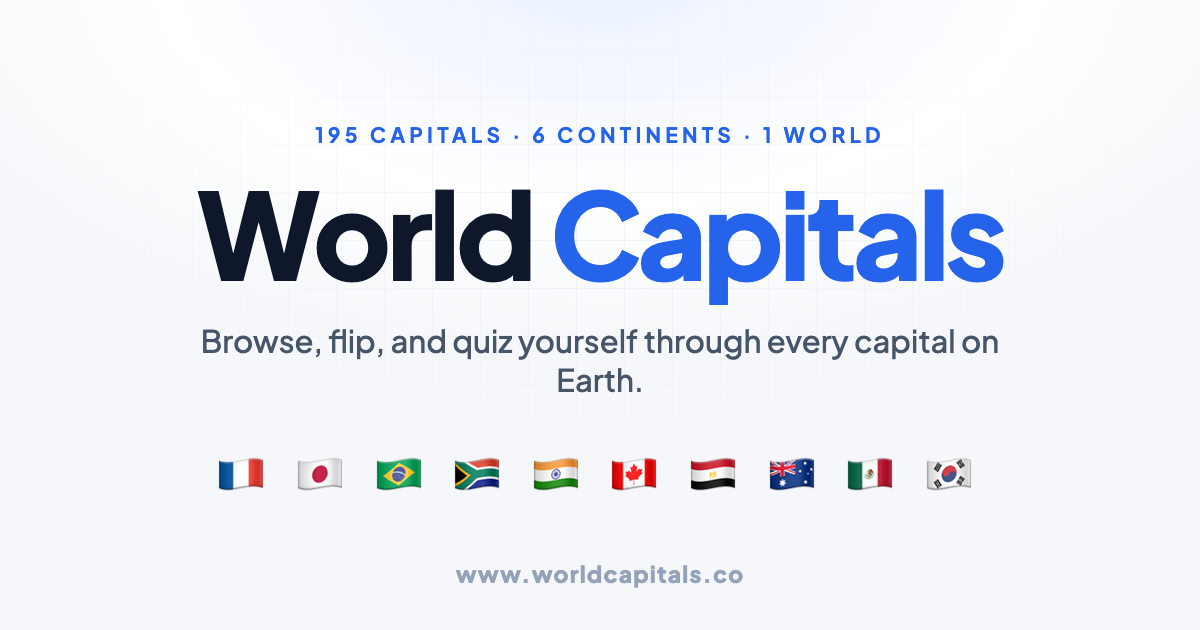
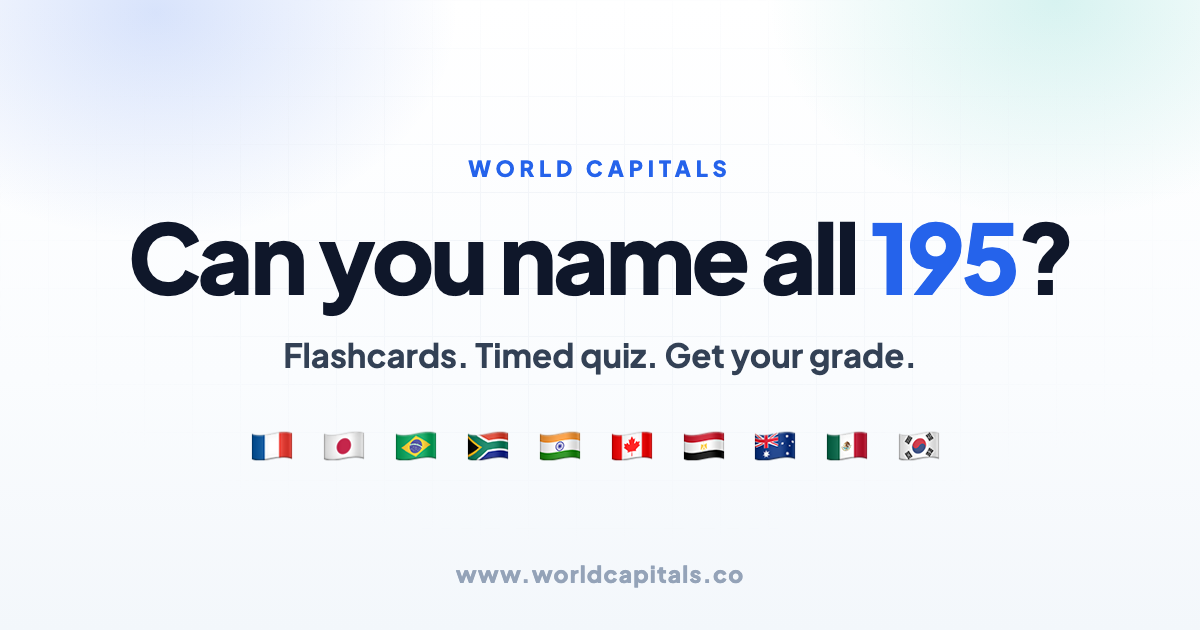
Marketing: challenge-hook share card ('Can you name all 195?') + CTA description + new OG image

diff --git a/index.html b/index.html
@@ -3,18 +3,18 @@
 <head>
 <meta charset="UTF-8">
 <meta name="viewport" content="width=device-width, initial-scale=1.0">
-<title>World Capitals: 195 from memory</title>
-<meta name="description" content="Every world capital, beautifully drilled. Browse, flip, and quiz your way through all 195 sovereign capitals, with pronunciations for the hard ones.">
+<title>World Capitals · Flashcards & Timed Quiz</title>
+<meta name="description" content="Browse, flip, and quiz all 195 world capitals. Take the timed quiz, get your A-to-F grade, and challenge your friends.">
 <meta name="theme-color" content="#FFFFFF">
 <!-- Open Graph / social -->
 <meta property="og:type" content="website">
-<meta property="og:title" content="World Capitals: 195 from memory">
-<meta property="og:description" content="Browse, flip, and quiz your way through all 195 sovereign capitals, with pronunciations for the tricky ones.">
+<meta property="og:title" content="Can you name all 195 world capitals?">
+<meta property="og:description" content="Flip flashcards, take the timed quiz, and get your grade. Then see if your friends can beat it.">
 <meta property="og:url" content="https://www.worldcapitals.co">
 <meta property="og:site_name" content="World Capitals">
 <meta name="twitter:card" content="summary_large_image">
-<meta name="twitter:title" content="World Capitals: 195 from memory">
-<meta name="twitter:description" content="Browse, flip, and quiz your way through all 195 sovereign capitals.">
+<meta name="twitter:title" content="Can you name all 195 world capitals?">
+<meta name="twitter:description" content="Flip flashcards, take the timed quiz, and get your grade. Then see if your friends can beat it.">
 <meta property="og:image" content="https://www.worldcapitals.co/og.png">
 <meta property="og:image:width" content="1200">
 <meta property="og:image:height" content="630">